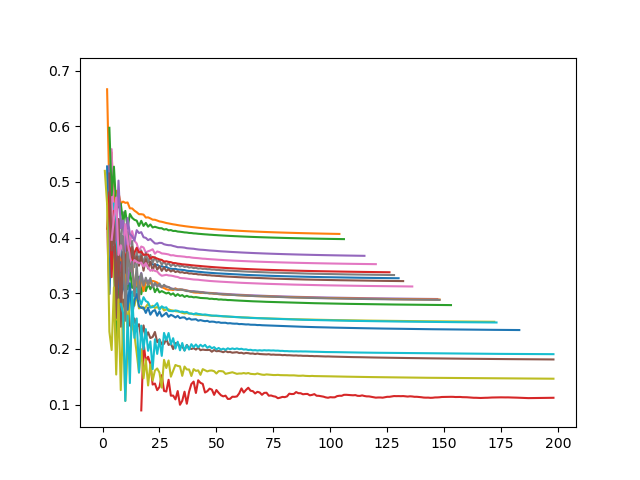
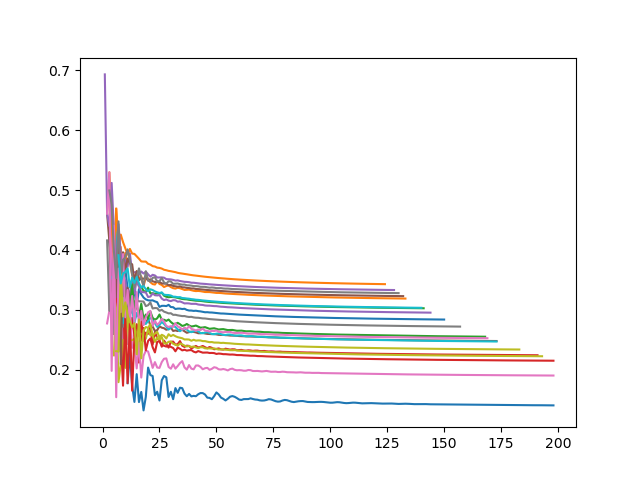
.

diff --git a/walkSubgraph.py b/walkSubgraph.py
@@ -34,7 +34,7 @@ print("created G")
 W = 20 # number of walks to take
 h = 200 # hike length
 
-for k in range(50, 110, 10): # walk length
+for k in range(20, 110, 10): # walk length
 	print("k =", k)
 	lhc = []
 	lwc = []
@@ -56,7 +56,7 @@ for k in range(50, 110, 10): # walk length
 			v = w
 		B = nb(H)
 		
-		"""
+		# """
 		### counting hikes
 		C = B @ np.matrix.transpose(B) # hike matrix for 1 step
 		hikeCounts = []
@@ -66,14 +66,15 @@ for k in range(50, 110, 10): # walk length
 			C = B @ C @ np.matrix.transpose(B) # hike matrix for one additional step
 		# print(hikeCounts)
 		# logHikeCounts = [ log(hikeCounts[k])/(k+2) for k in range(h) ]
-		logHikeCounts = []
+		logHikeCounts = np.array([])
 		i = 0
 		while i < h and hikeCounts[i] >= 0:
-			logHikeCounts.append(0 if hikeCounts[i] == 0 else log(hikeCounts[i])/(i+2))
+			logHikeCounts = np.append(logHikeCounts, [np.nan if hikeCounts[i] == 0 else log(hikeCounts[i])/(i+2)])
 			i += 1
 		lhc.append(logHikeCounts)
-		"""
+		# """
 		
+		# """
 		### counting nb walks
 		A = nx.adjacency_matrix(H)
 		m = H.number_of_nodes()
@@ -93,30 +94,25 @@ for k in range(50, 110, 10): # walk length
 			Nc = Ncnew
 			N1 = N1new
 			# print(Nc)
-		# """
 		# print(walkCounts)
 		logWalkCounts = np.array([])
 		i = 1
 		while walkCounts[i] >= 0 and i < h:
 			logWalkCounts = np.append(logWalkCounts, [np.nan if walkCounts[i] == 0 else log(walkCounts[i])/(i+2)])
 			i += 1
-				
-		""" # code i got from chatgpt for interpolating over gaps
-		nans, x_ = np.isnan(logWalkCounts), lambda z: z.nonzero()[0]
-		logWalkCounts[nans] = np.interp(x_(nans), x_(~nans), logWalkCounts[~nans])
-		"""
 		
 		lwc.append(logWalkCounts)
+		# """
 		
-		
-	"""
 	for hike in lhc:
 		plt.plot(hike)
-	plt.show()
+	# plt.show()
+	plt.savefig("figs/seed"+str(seed)+"h"+str(k))
 	plt.close()
-	"""
+	# """
 	for walk in lwc:
 		plt.plot(walk)
 	# plt.show()
 	plt.savefig("figs/seed"+str(seed)+"w"+str(k))
 	plt.close()
+	# """
